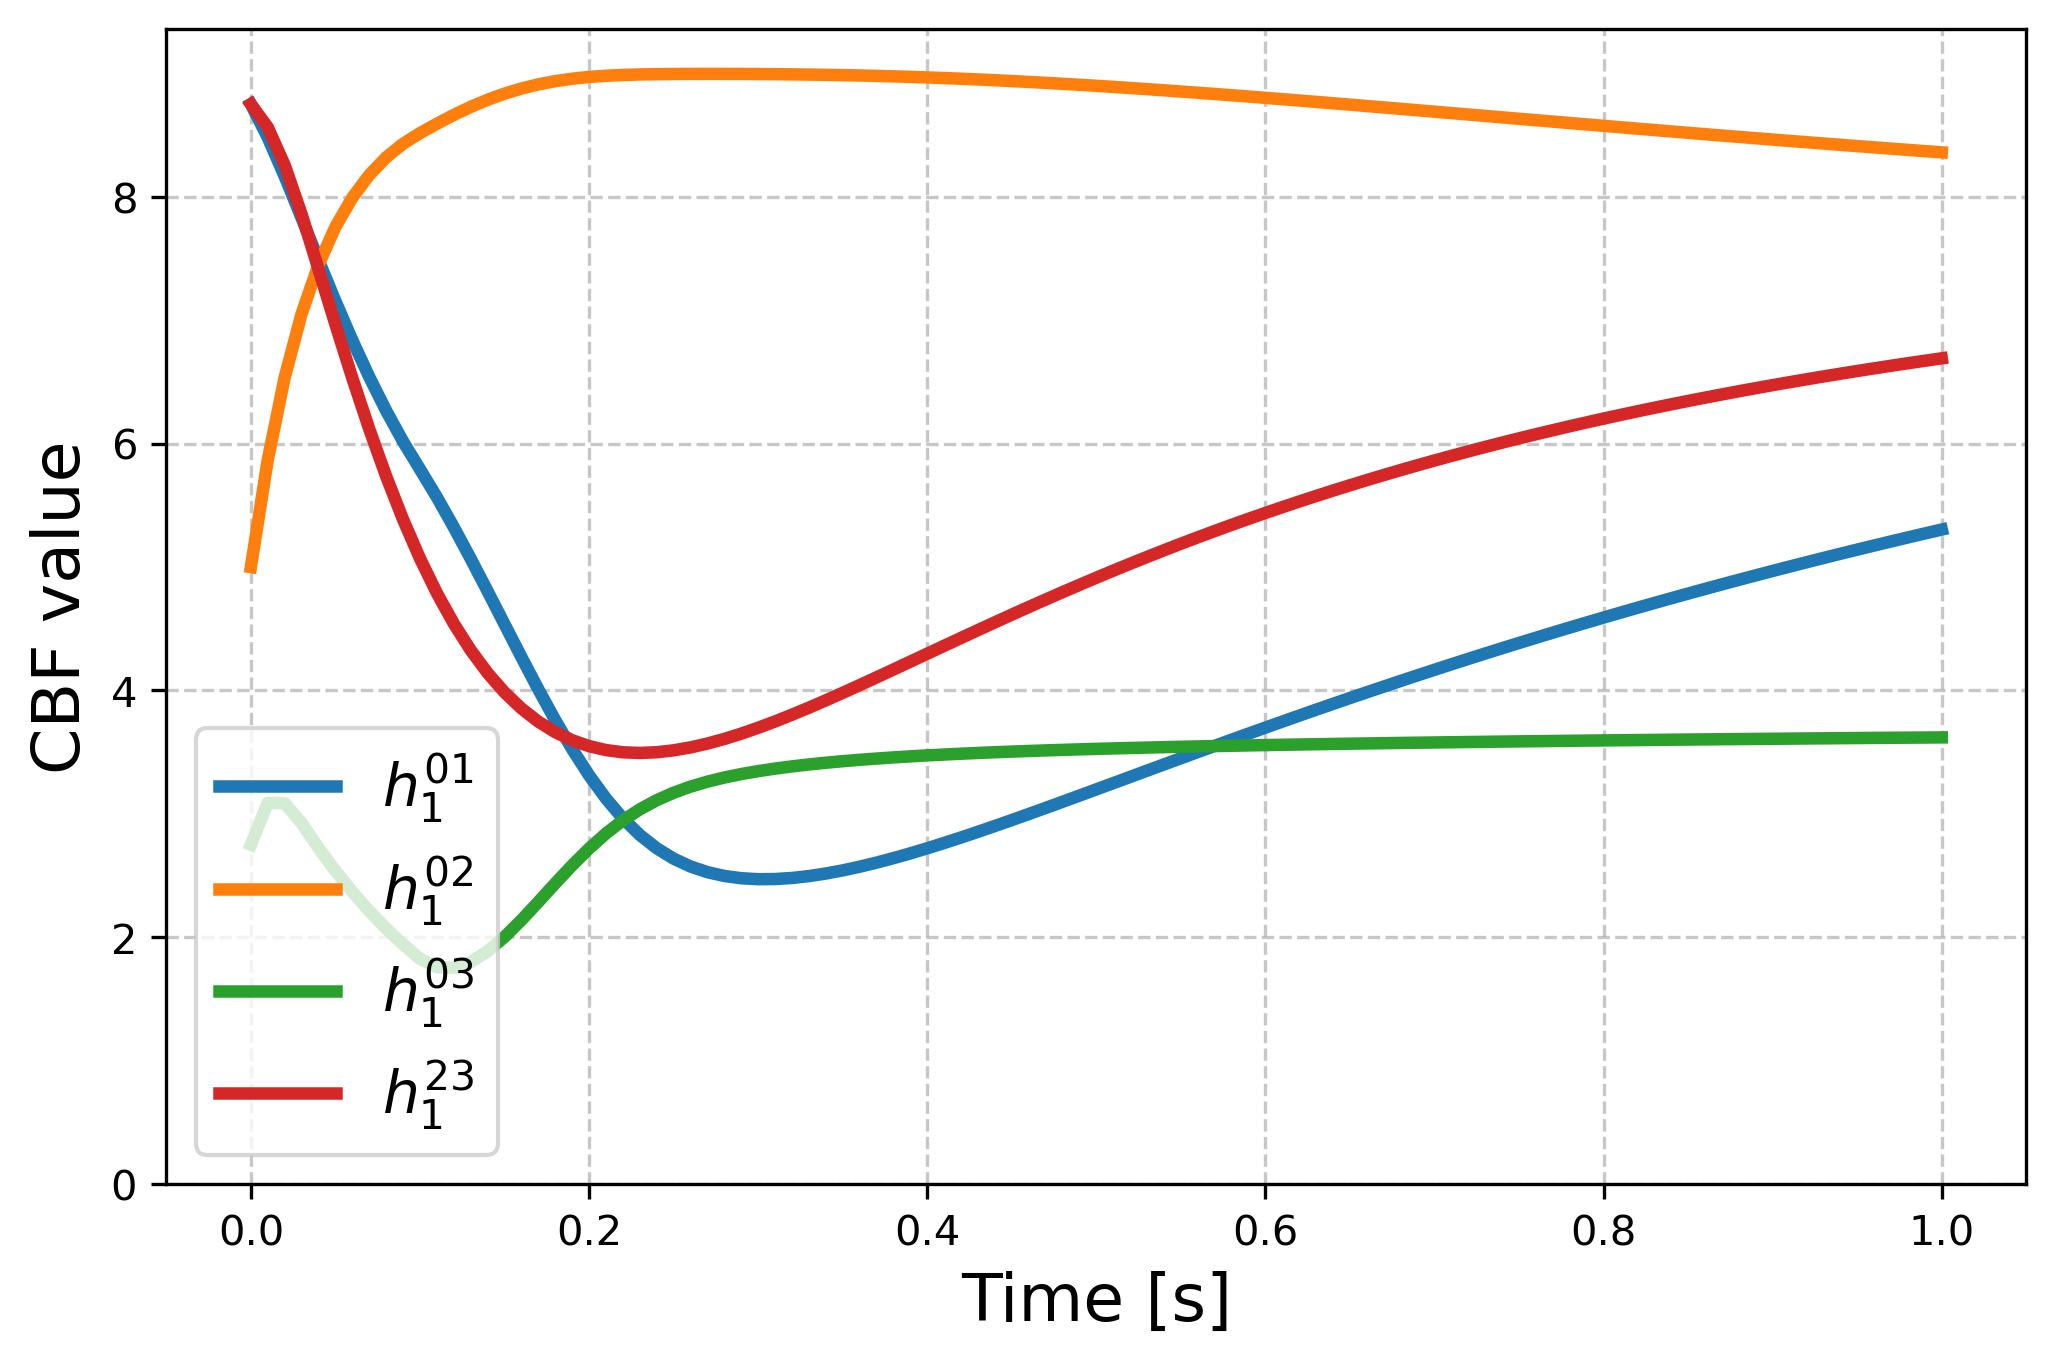
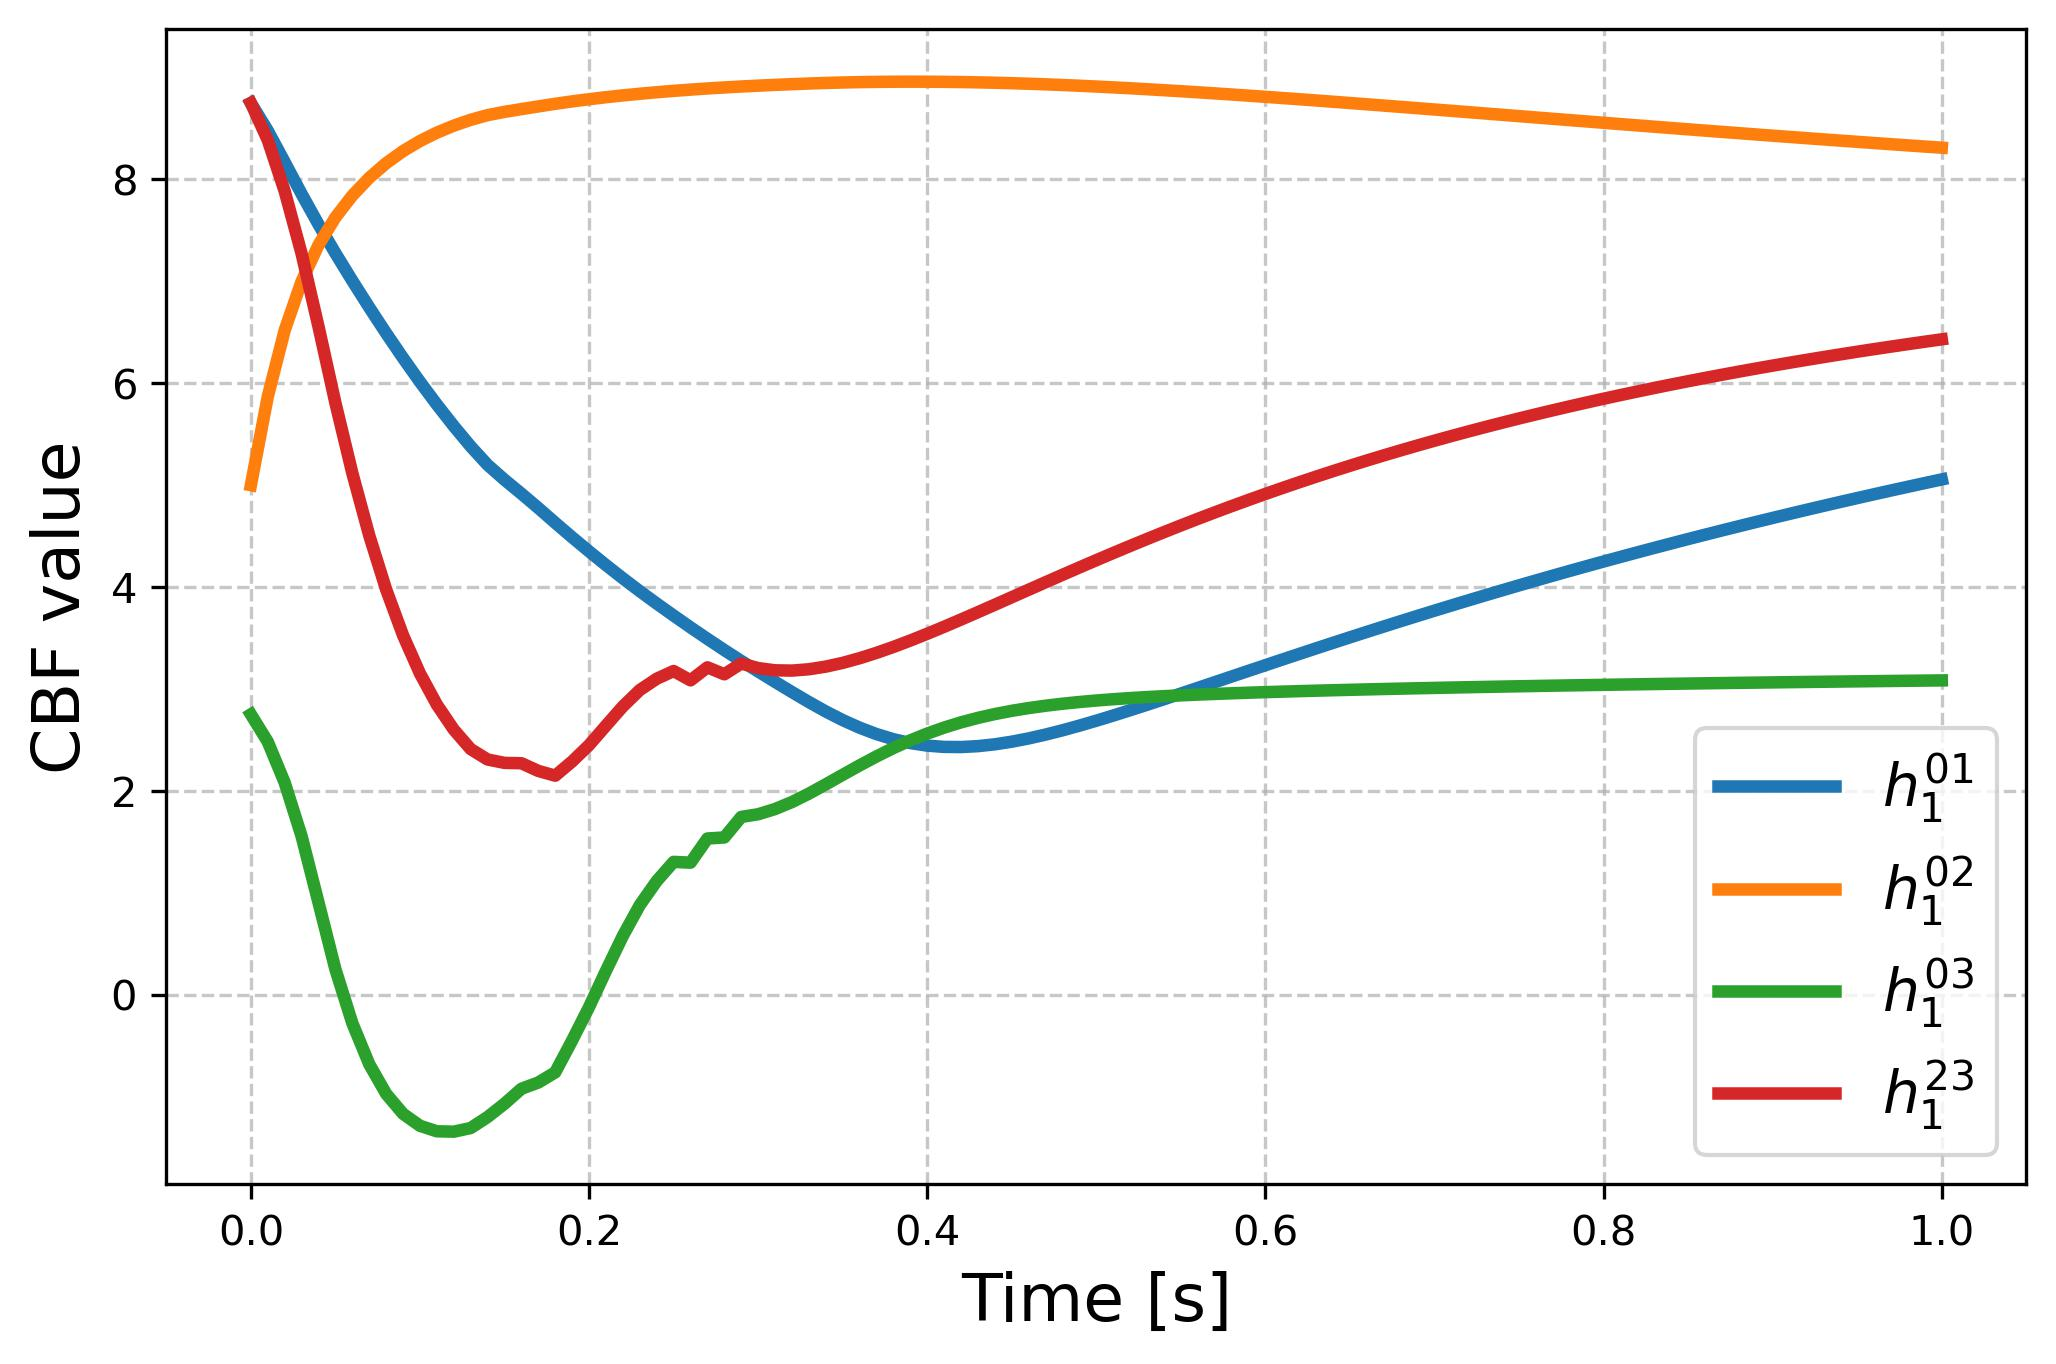
Update implementation and documentation for journal submission

diff --git a/simulate.py b/simulate.py
@@ -107,6 +107,13 @@ def main():
         is_train, mas, states_array, controls_array, cbfdots_array, config.simulation.jbounds_file
     )
 
+    # Uncomment to double Jacobian bounds
+    # for k in Jubounds:
+    #     Jubounds[k] /= 1/2
+
+    # for k in Jlbounds:
+    #     Jlbounds[k] /= 1/2
+
     # Run simulation
     mas.dt = config.simulation.dt
     mas.state = init_state
@@ -121,6 +128,26 @@ def main():
     # Plot results
     plot_all_results(states, controls, mas, desired_pos,
                      config, is_save=is_save, save_dir=save_dir)
+
+    n_u = nominal_controller(states, mas, desired_pos, config.control.k_p)
+    print("cbf cost:", np.mean(
+        np.linalg.norm(controls-n_u[:, :-1], axis=0)))
+
+    h = mas.calculate_cbfs(states)
+    print("min cbf", min(arr.min() for arr in h.values()))
+
+    h = mas.calculate_cbfs(states)
+    print("min cbf after 0.1 sec", min(
+        arr[10:].min() for arr in h.values()))
+
+    H = np.stack([arr for arr in h.values() if arr.size > 10])
+
+    # Boolean mask: True if any CBF is negative at that time
+    violations = np.any(H < 0, axis=0)
+
+    num_violation_times = np.sum(violations)
+
+    print("negative CBF:", num_violation_times)
 
 
 if __name__ == "__main__":

diff --git a/config/config.py b/config/config.py
@@ -56,7 +56,7 @@ config_1d = Config(
         desired_dists={(0, 1): 1, (0, 2): 1, (2, 3): 1, (0, 3): 1}
     ),
     control=ControlConfig(
-        k_p=10.0,
+        k_p=15.0,
         alpha=10.0,
         beta_dict={((0, 3), 0): 0.5, ((0, 3), 3): 0.5}
     )

diff --git a/README.md b/README.md
@@ -1,17 +1,26 @@
-# Distributed Data-Driven Control Barrier Functions for Leader-Follower Multi-Agent Systems
+# Distributed Data-Driven Control Barrier Functions (3D-ZCBFs)
 
-This repository contains code accompanying the paper:
+This repository contains the code implementation for the following papers:
 
-**"Distributed Data-Driven Control Barrier Functions for Leader-Follower Multi-Agent Systems"**  
+* **Journal Version:** "Full Journal Title Here" (Submitted to *Journal Name*, 2026).
+* **Conference Version:** ["Distributed Data-Driven Control Barrier Functions for Leader-Follower Multi-Agent Systems"](link-to-paper), *Conference Name*, 2025.
+
+The code implements **distributed data-driven control barrier functions (3D-ZCBFs)** for connectivity preservation in leader-follower multi-agent systems (MAS) using only local state information.
 
 
 The code implements **distributed data-driven control barrier functions (3D-ZCBFs)** for connectivity preservation in leader-follower multi-agent systems (MAS) using only local state information.
 
 ---
 
-## Abstract
+## Methodology Overview
 
-This work introduces distributed data-driven control barrier functions (3D-ZCBFs) for connectivity preservation in unknown control-affine leader–follower MAS. The framework identifies CBF time derivative bounds from collected system data, eliminating the need to model full high-dimensional agent and neighbor dynamics. The learned bounds are then used to ensure controlled invariance of the safe sets. Specific CBFs are designed to preserve connectivity among neighbors, and the conditions are reformulated so that each leader computes its input using only local information. A projection-based controller enforces the 3D-ZCBF constraints while minimally deviating from a nominal input. Simulations demonstrate distributed connectivity preservation using only local information.
+The 3D-ZCBF framework ensures controlled invariance of safe sets by identifying CBF time derivative bounds directly from collected system data. This approach eliminates the requirement for full modeling of high-dimensional agent and neighbor dynamics. 
+
+Key features of this implementation include:
+* **Local Information Only:** Leaders compute control inputs using only local state data.
+* **Connectivity Preservation:** Specific CBFs are designed to maintain links between neighbors in the MAS.
+* **Projection-Based Control:** A controller enforces 3D-ZCBF constraints while ensuring minimal deviation from a nominal control input.
+* **Data-Driven Bounds:** Learned Jacobian bounds are used to guarantee safety without explicit system identification.
 
 ---
 
@@ -77,6 +86,9 @@ is_save = False
 save_dir = "figures"
 ```
 
-## 📜 Citing this Work
+## 📜 Related Work
 
-This repository is for academic and research purposes. Please cite the above paper if used.
+If you use this code or the associated methods, please cite the following:
+
+* "A Distributed Framework for Data-Driven Safe Coordination in Leader–Follower Networks" (Under Review, 2026).
+*  "Distributed Data-Driven Control Barrier Functions for Leader-Follower Multi-Agent Systems" (Under Review, 2025).
